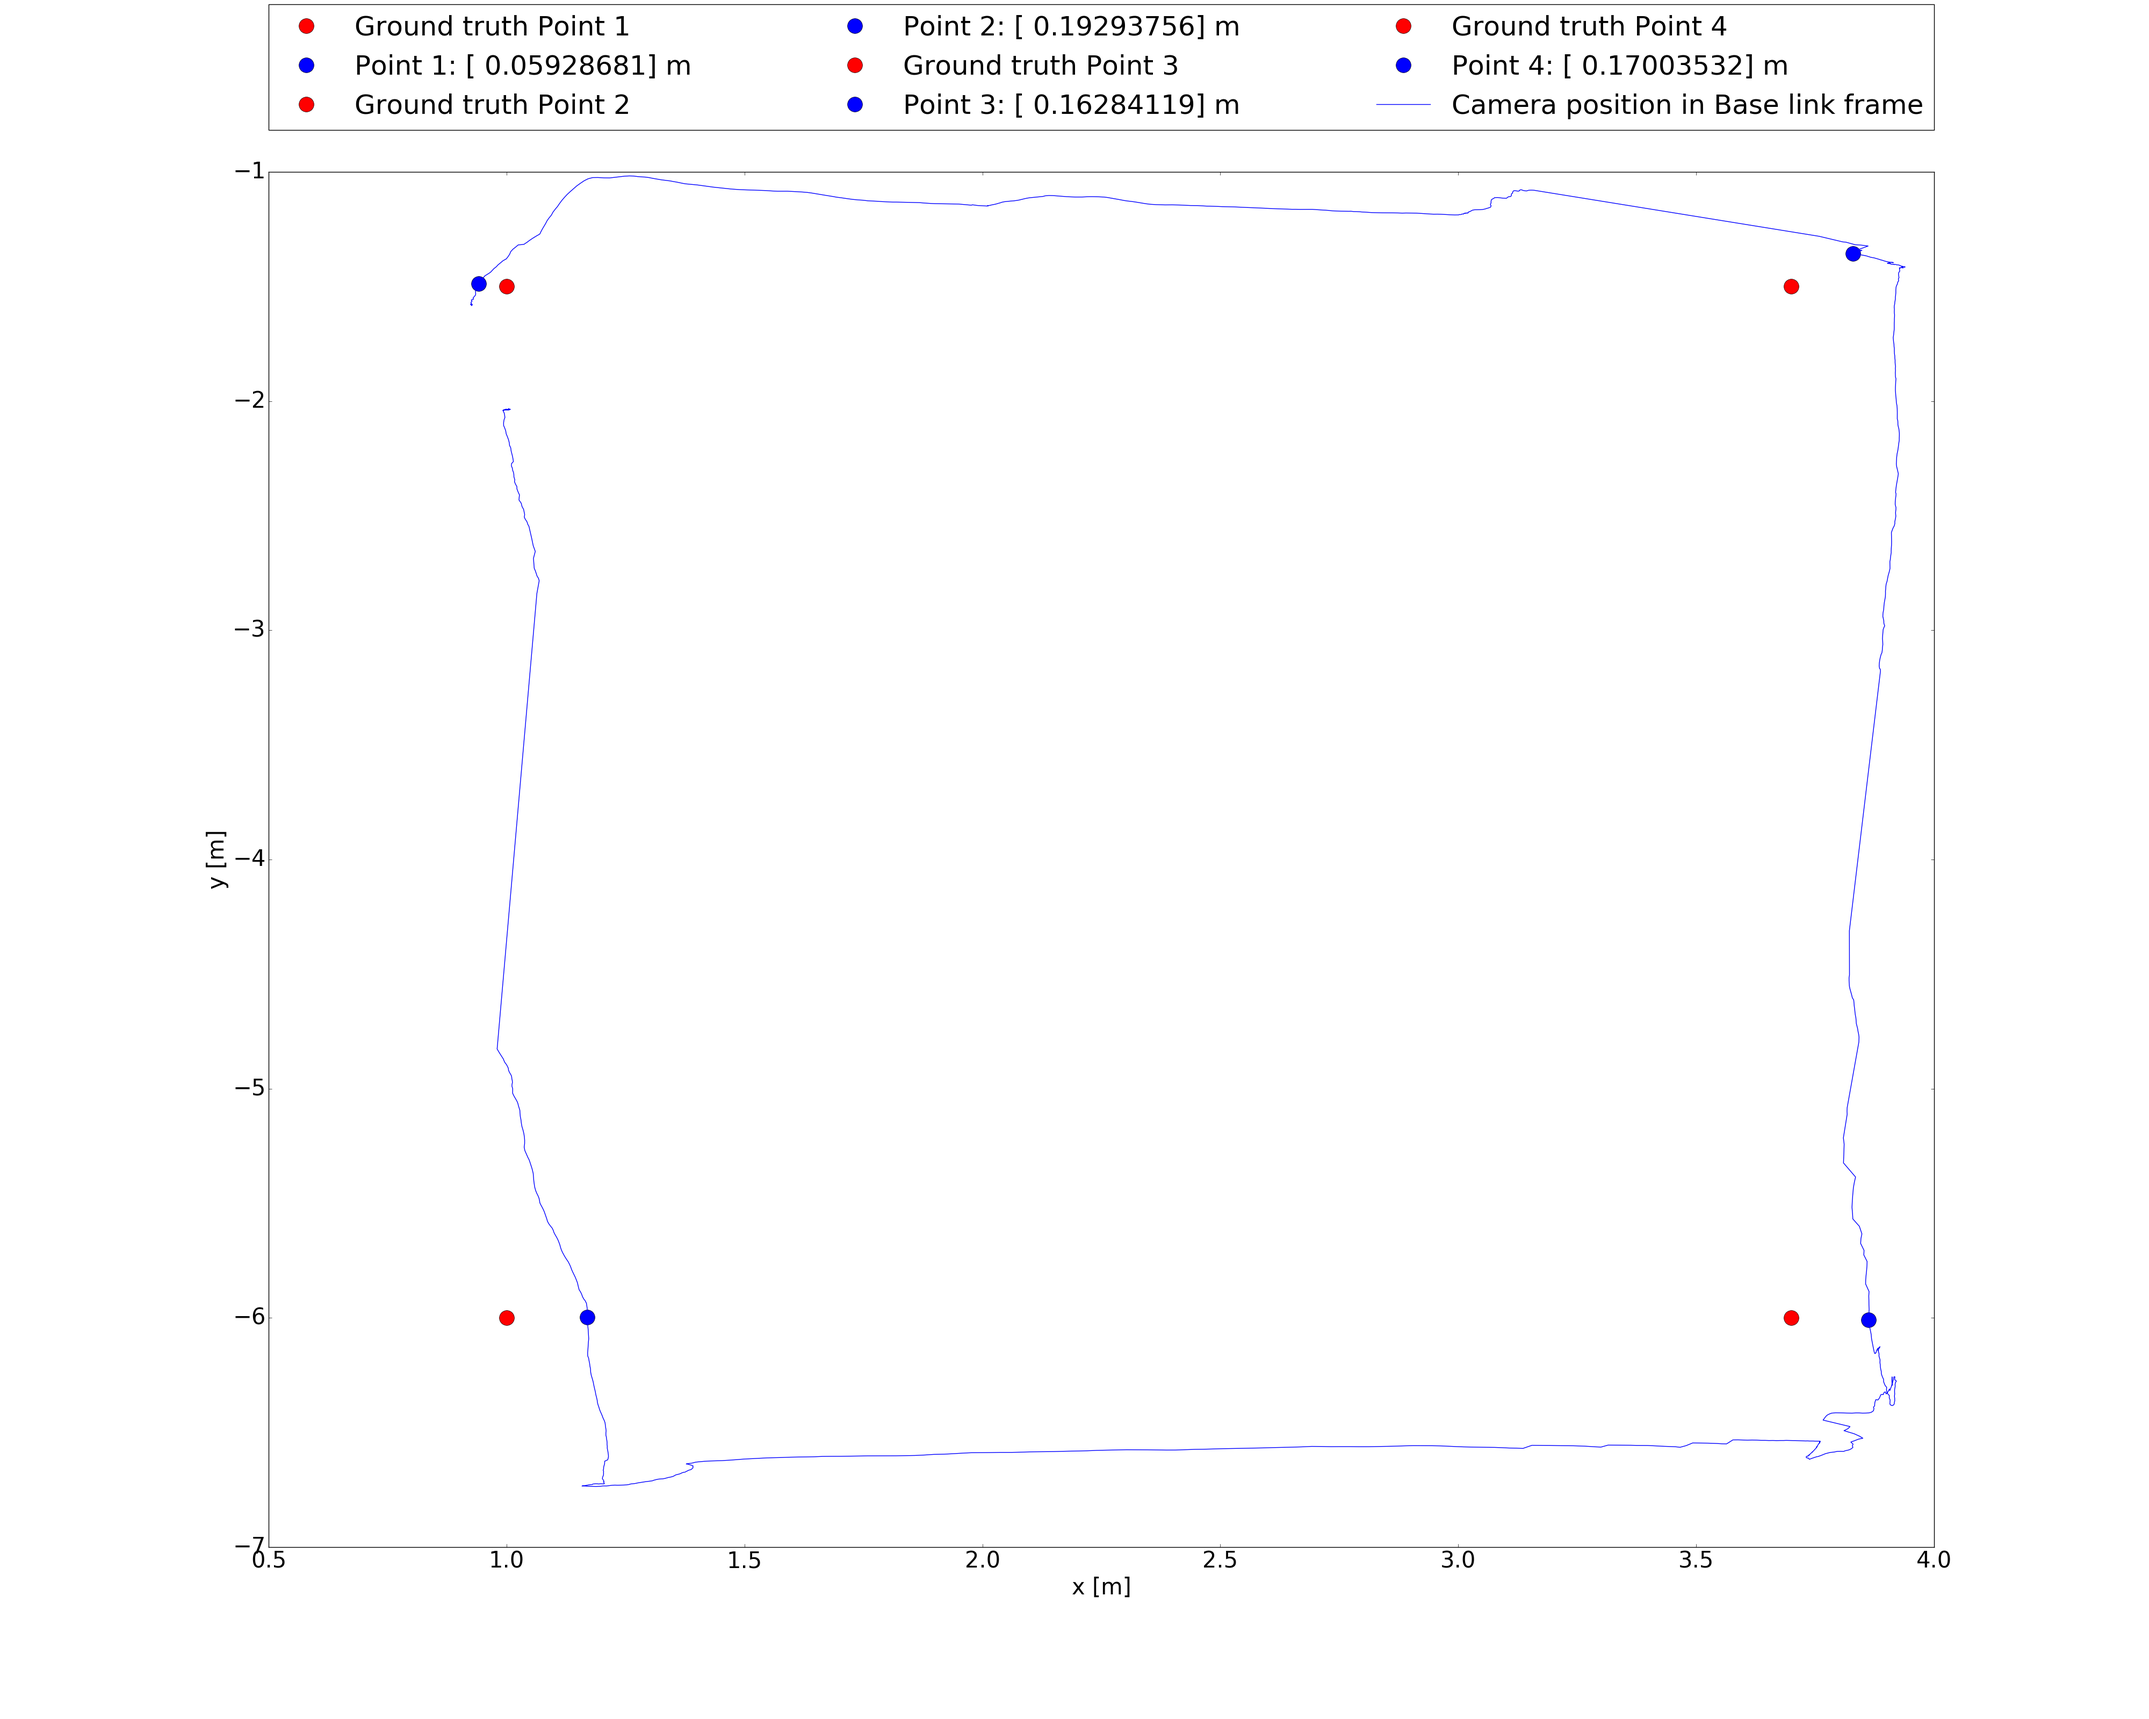
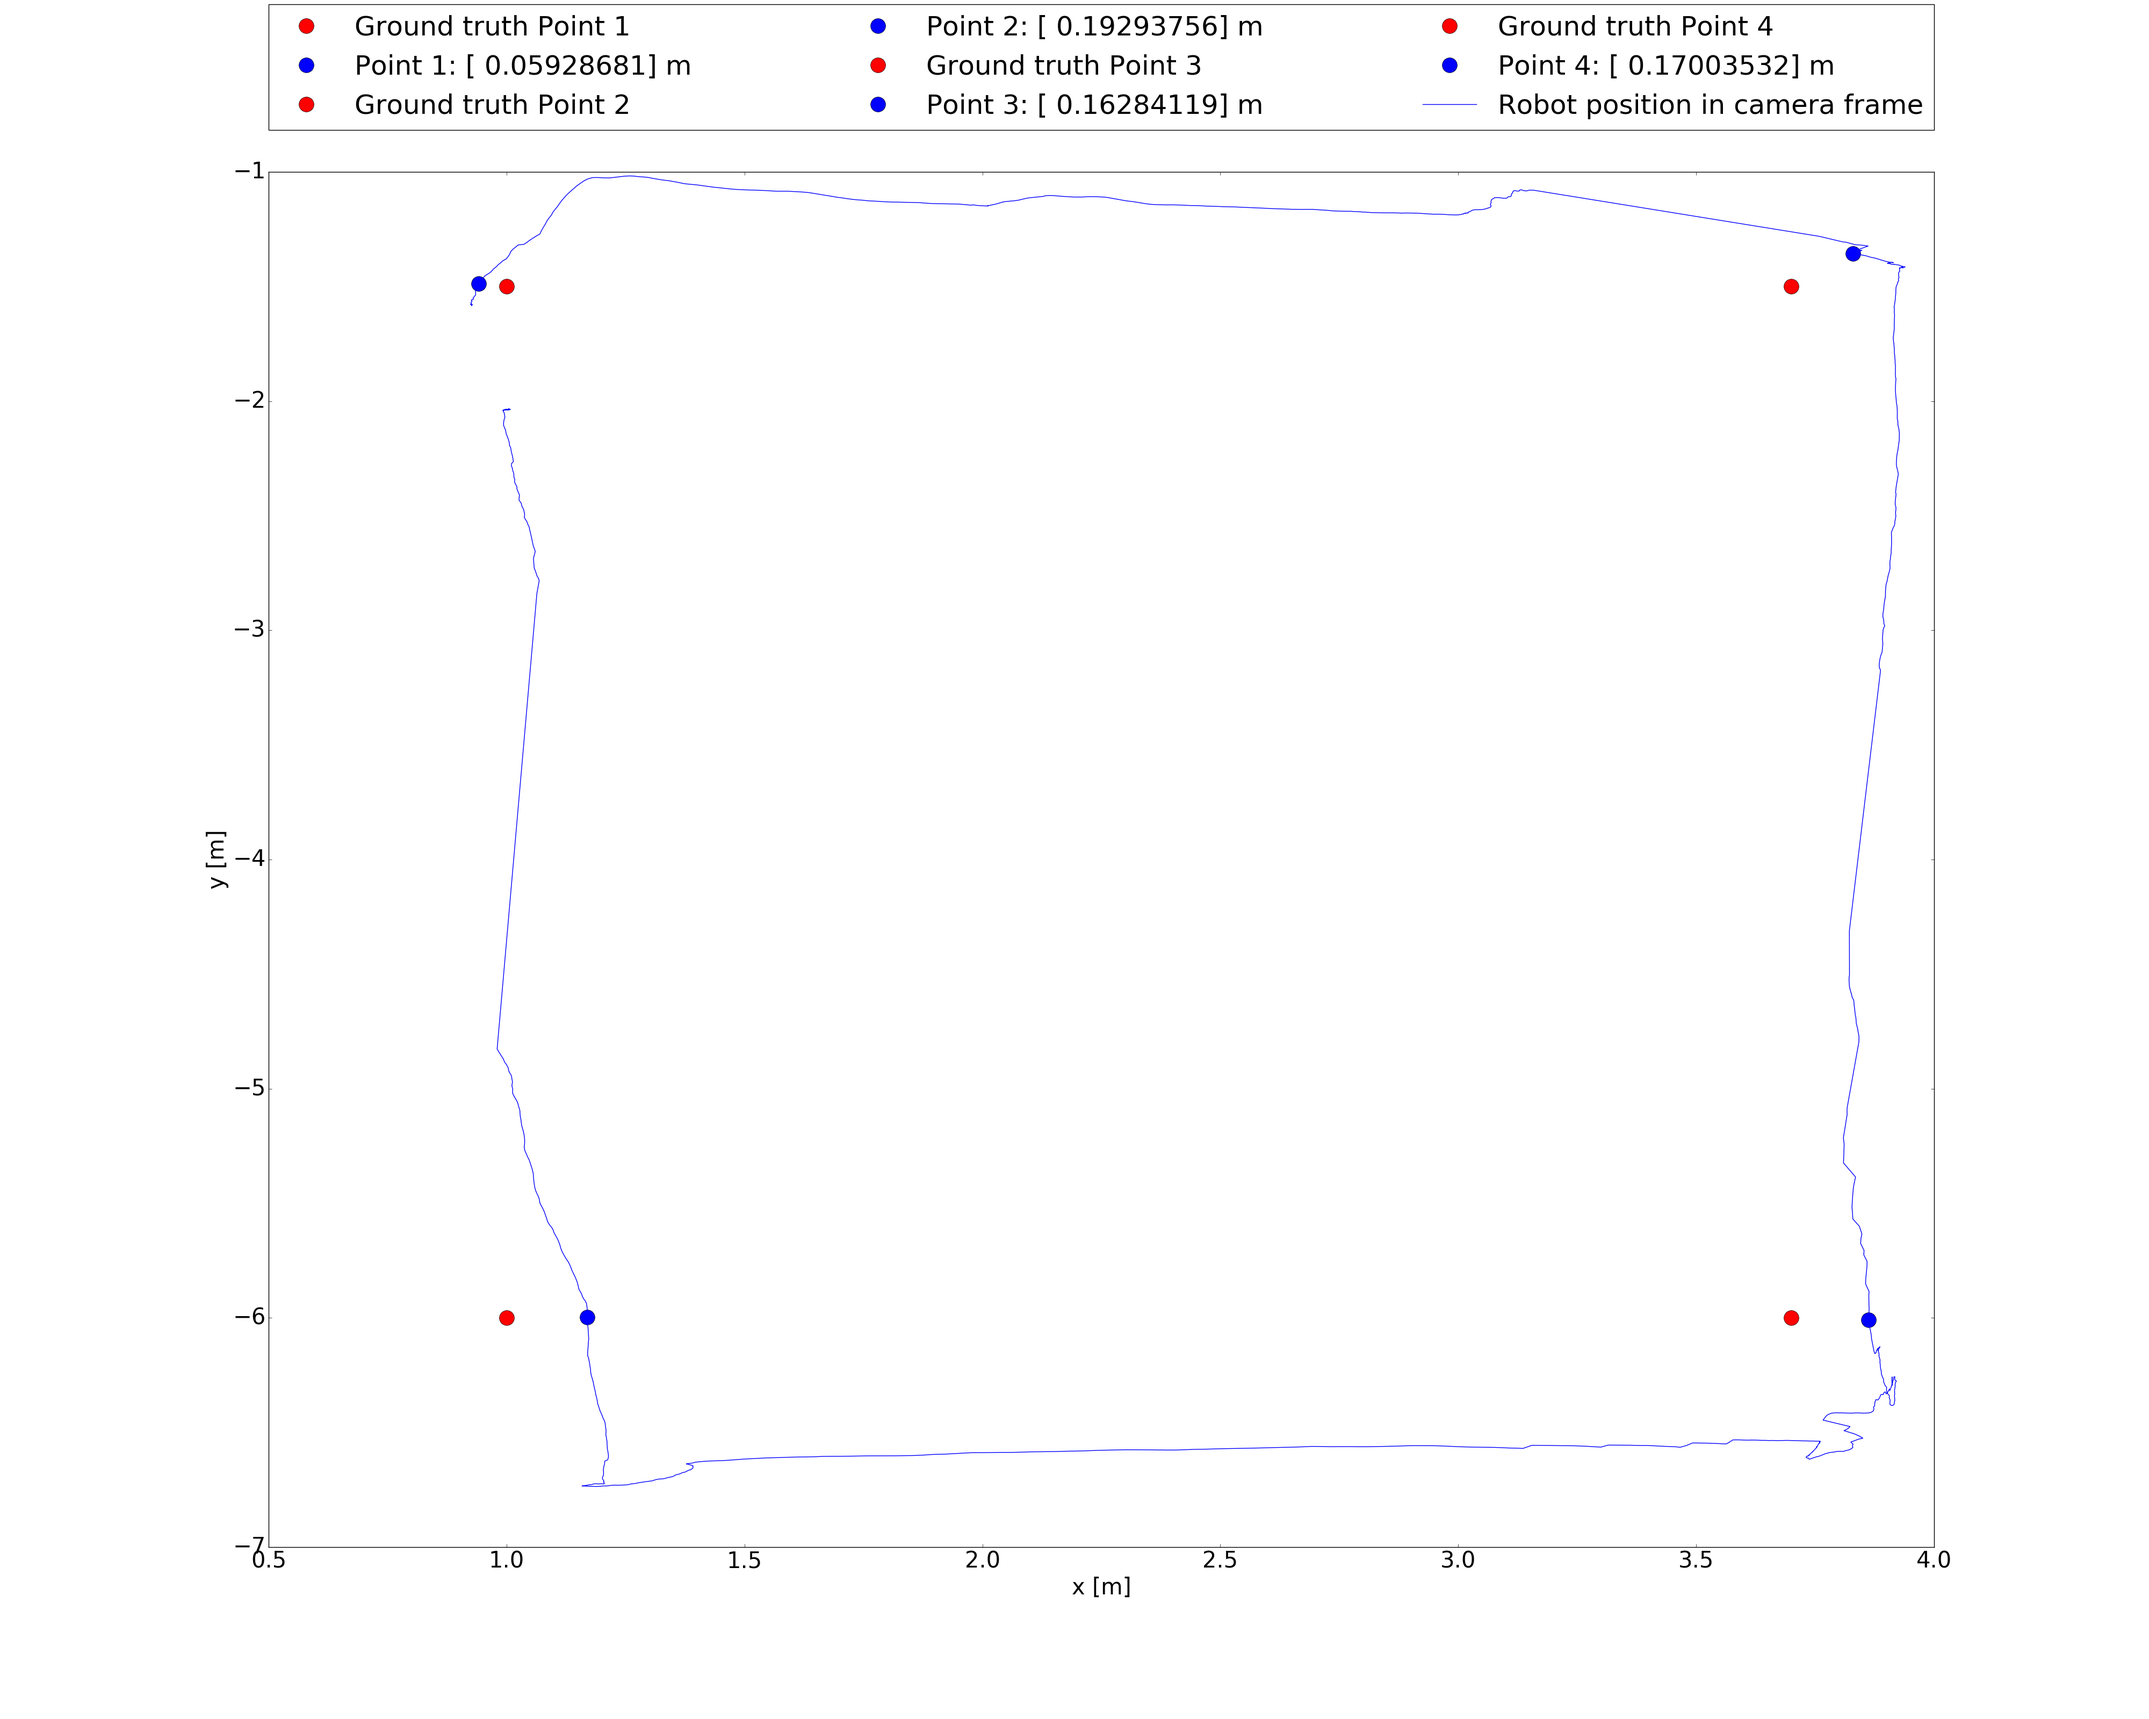
remove small error.

Changed region(s): [[0.375, 0.0, 0.5938, 0.0625], [0.6562, 0.0, 0.8438, 0.0625]]

diff --git a/Kyb_prog/indoor_measurment/manual_measurment_indoor/plot_improvment.py b/Kyb_prog/indoor_measurment/manual_measurment_indoor/plot_improvment.py
@@ -72,7 +72,7 @@ if __name__== "__main__":
     for i in range(0, len(Strecke_1), 1):
         plt.plot(Strecke_1[int(i)][int(0)], Strecke_1[int(i)][int(1)], 'o' ,color='red', markersize=20, label="Ground truth Point " +str(i+1))
         plt.plot(base_link_x_odom_camera[int(n_1[i])], base_link_y_odom_camera[int(n_1[i])], 'o' ,color='blue', markersize=20, label="Point " +str(i+1) + ": " + str(err_min_1[i]) + " m")
-    plt.plot(base_link_x_odom_camera, base_link_y_odom_camera, label='Camera position in Base link frame')
+    plt.plot(base_link_x_odom_camera, base_link_y_odom_camera, label='Robot position in camera frame')
     # plt.plot(base_link_y_odom_camera_tf, base_link_x_odom_camera_tf, label='Camera position in Base link frame with tf')
     # plt.plot(base_camera_y_odom_camera, base_camera_x_odom_camera, label='Camera position in Base camera frame')
 
@@ -96,7 +96,7 @@ if __name__== "__main__":
     for i in range(0, len(Strecke_1), 1):
         plt.plot(Strecke_1[int(i)][int(0)], Strecke_1[int(i)][int(1)], 'o' ,color='red', markersize=20, label="Ground truth Point " +str(i+1))
         plt.plot(base_link_x_odom_camera[int(n_1[i])], base_link_y_odom_camera[int(n_1[i])], 'o' ,color='blue', markersize=20, label="Point " +str(i+1) + ": " + str(err_min_1[i]) + " m")
-    plt.plot(base_link_x_odom_camera, base_link_y_odom_camera, label='Camera position in Base link frame')
+    plt.plot(base_link_x_odom_camera, base_link_y_odom_camera, label='Robot position in camera frame')
     # plt.plot(base_link_y_odom_camera_tf, base_link_x_odom_camera_tf, label='Camera position in Base link frame with tf')
     # plt.plot(base_camera_y_odom_camera, base_camera_x_odom_camera, label='Camera position in Base camera frame')
 
@@ -116,7 +116,7 @@ if __name__== "__main__":
     for i in range(0, len(Strecke_1), 1):
         plt.plot(Strecke_1[int(i)][int(0)], Strecke_1[int(i)][int(1)], 'o' ,color='red', markersize=20, label="Ground truth Point " +str(i+1))
         plt.plot(base_link_x_odom_camera[int(n_1[i])], base_link_y_odom_camera[int(n_1[i])], 'o' ,color='blue', markersize=20, label="Point " +str(i+1) + ": " + str(err_min_1[i]) + " m")
-    plt.plot(base_link_x_odom_camera, base_link_y_odom_camera, label='Camera position in Base link frame')
+    plt.plot(base_link_x_odom_camera, base_link_y_odom_camera, label='Robot position in camera frame')
     # plt.plot(base_link_y_odom_camera_tf, base_link_x_odom_camera_tf, label='Camera position in Base link frame with tf')
     # plt.plot(base_camera_y_odom_camera, base_camera_x_odom_camera, label='Camera position in Base camera frame')
 
@@ -136,7 +136,7 @@ if __name__== "__main__":
     for i in range(0, len(Strecke_1), 1):
         plt.plot(Strecke_1[int(i)][int(0)], Strecke_1[int(i)][int(1)], 'o' ,color='red', markersize=20, label="Ground truth Point " +str(i+1))
         plt.plot(base_link_x_odom_camera[int(n_1[i])], base_link_y_odom_camera[int(n_1[i])], 'o' ,color='blue', markersize=20, label="Point " +str(i+1) + ": " + str(err_min_1[i]) + " m")
-    plt.plot(base_link_x_odom_camera, base_link_y_odom_camera, label='Camera position in Base link frame')
+    plt.plot(base_link_x_odom_camera, base_link_y_odom_camera, label='Robot position in camera frame')
     # plt.plot(base_link_y_odom_camera_tf, base_link_x_odom_camera_tf, label='Camera position in Base link frame with tf')
     # plt.plot(base_camera_y_odom_camera, base_camera_x_odom_camera, label='Camera position in Base camera frame')
 

diff --git a/Kyb_prog/indoor_measurment/manual_measurment_indoor/drift.py b/Kyb_prog/indoor_measurment/manual_measurment_indoor/drift.py
@@ -55,8 +55,8 @@ err_min_1 = min(err_abs_1)
 n_1 = err_abs_1.tolist().index(min(err_abs_1))
     # end of the loop
 
-print(np.var(base_link_x_odom_camera))
-print(np.var(base_link_y_odom_camera))
+# print(np.var(base_link_x_odom_camera))
+# print(np.var(base_link_y_odom_camera))
 
 plt.rcParams.update({'font.size': 30})
 
